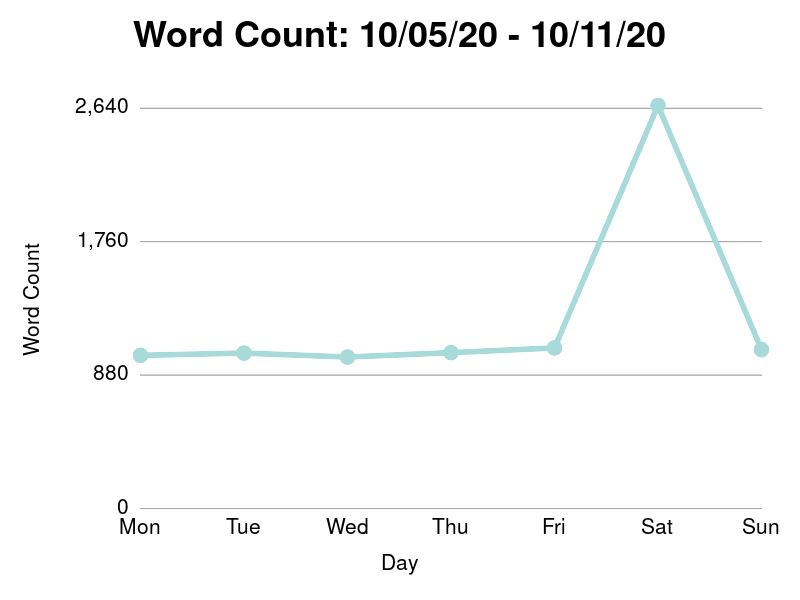
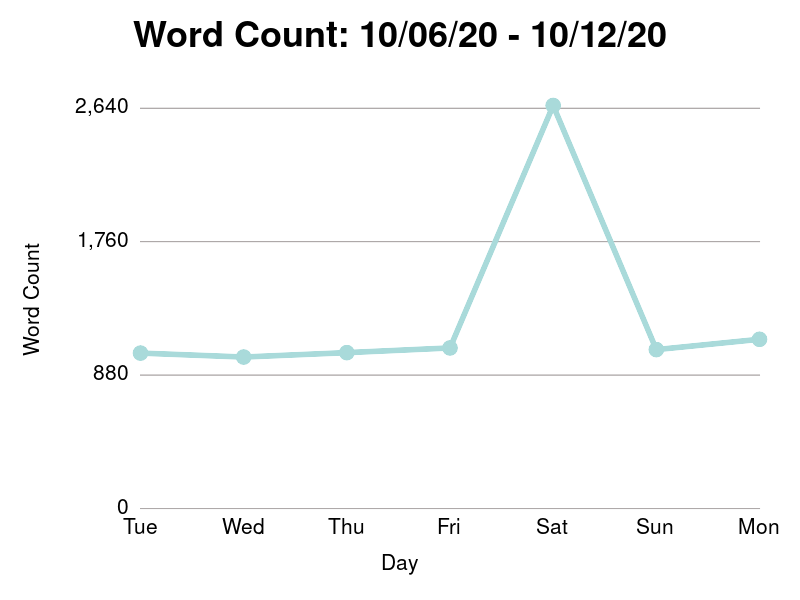
Post

diff --git a/entries/2020-10-12.md b/entries/2020-10-12.md
@@ -1,0 +1,133 @@
+---
+title: snacking, frisbee trick shots, and nick jr. fan fiction
+---
+
+Dear Journal,
+
+Good morning, everyone.  It is not my honor, nor my privilege - but it
+is my duty - to say to you "happy Monday".
+
+I can't believe it's already Monday.  The weekends are just getting a
+little to quick for my taste.  It felt like just yesterday we were
+palling around at the biergarten like we had all the time in the
+world.  A few naps and a few dinners later, here we are ready to begin
+another work week.
+
+The coffee situation this morning is dire, having enough beans in the
+bag to make exactly 1.2 pots of coffee.  I imagine I looked pretty
+ridiculous making a second batch for only 0.2 pots of coffee, handling
+the meager pile of brown powder like it was a life saving drug.  Don't
+worry about us, though.  We just need enough coffee to hold us over
+until Marissa takes Rodney on a fun little errand across the street to
+Moka for a bag to tide us over.  Rodney will happily accompany her for
+their kids sized mango smoothie, the crown jewel of Rodney treats.
+
+A radioactive orange and yellow smoothie stuffed into a kid sized
+plastic cup, topped with a little piece of wrapped candy.  And before
+you even take the cup from the drive through window, Rodney will
+already be barking orders.  "Dadda," he says.  "Take open the candy
+please?  Take off the wrapper please?"
+
+And so you take off the wrapper, setting the piece of candy back on
+the lid for him to enjoy between fruity mango sips.  Later, Rodney,
+not understanding the intricacies of how smoothies melt, will hand it
+back to me when the smoothie runs out of liquid.
+
+"It's OK dude," I say.  "I'll put it in the fridge for later."
+
+But there's never a _later_.  Rodney almost always forgets about it,
+or even asks for something else.  That melty mango smoothie is mine.
+
+I don't think I've ever used this platform to rant about Rodney's high
+maintenance snacking situation.  As of late, it's kind of gotten out
+of control.  Occasionally, we'll send him up to his room for quiet
+time with a little bowl of his favorite snacks - a tiny bag of paw
+patrol fruit snacks, some snapped Pocky sticks, and maybe a single
+marshmallow or a few pieces of candy corn.  Rodney has done everything
+in his power to make this a regularly expected condition of quiet time
+in his room.
+
+"I have paw patrol fruits?" he'll ask with a wilting voice.  And once
+he gets your attention, he'll raise the stakes, adding _And pocky.
+And two lil' marshmallows.  And candy corn._
+
+"No," I scolded.  "Rodney, it's 9 in the morning.  You're not even
+supposed to be up yet.  You can't have any snacks yet, especially
+before your breakfast."
+
+If we resist his advances for room service, Rodney settles for kitchen
+grazing.  The best time to hit me up is when I'm cooking, since I'm
+manning the kitchen and I'm in a good mood.  Rodney asks for _stukjes_
+of cheese or bread off the cutting board, cherry tomatoes, and off
+cuts of carrots.  Over by the pantry, he can usually get away with
+asking me for a few goldfish crackers out of our family-sized bin.
+If, god forbid, nobody is in the kitchen to hold him accountable,
+he'll get the honey bottle of the lower shelf and dab a few drops on
+his finger.
+
+But the most cherished staple in the domain of Recker family stacking
+would easily have to be Marissa's _sparkly toast_.  A piece of toasted
+bread swiped with butter, sprinkled liberally with cinnamon sugar.
+
+"Did you know that one morning on the way up to my office to start
+work, he asked me for sparkly toast?" I told Marissa.
+
+She laughed.  "The nerve," she said.  "He's just getting way too
+confident."
+
+_Sip_.  How is your morning going?  And, more importantly, how was
+your weekend?  Ours was brief but relaxing.  Surprisingly, it was kind
+of nice not having to work around a Sunday football game.  Yesterday
+was probably the only day this weekend I felt like I could just hang
+around on the couch in the afternoon, clicking around YouTube with
+Rodney.
+
+Later that day, I enjoyed a beer on the couch with Marissa in her
+studio, in celebration of a successful virtual gallery weekend.  At
+four o'clock, she signed off her virtual booth for the weekend.
+Upstairs, directly above our heads, we heard a thump and a clatter in
+the dining room.
+
+"That's just Rodney," I laughed.  "He's setting up water bottles
+around the house and knocking them down with a Frisbee."
+
+I played a few rounds of improvisational Frisbee water bottle
+bowling.  He reserved the toughest trick shot for me, standing up a
+water bottle on the other side of the living room.  I stood at the top
+of the stair case, crouching so I'd have a clear line of site at the
+target.
+
+"OK, let's do this!" yelled Rodney.  I gave the Frisbee a gentle toss,
+and it floated across the room.  It bounced off a leg of the fish tank
+and rolled into the water bottle, knocking it over.  Rodney pumped his
+arm and shrieked.  "_WOOOOH!_" High fives were exchanged.  After
+checking up on him, I rejoined Marissa in the basement, leaving him to
+tackle another trick shot involving stacking two half empty bottles
+precariously on our napkin holder.
+
+Marissa put Rodney to bed.  As we grabbed evening drinks out of the
+fridge in the kitchen, we exchanged Rodney stories.
+
+"You know how I've been telling him bedtime stories at night?" I
+began.  "I found that he's a lot less scared of them if he can set up
+the whole premise with characters that are very familiar to him.  I
+told him a story about the paw patrol rescuing his Corgi, who had been
+lost at the biergarten."
+
+"Oh, that's nice," said Marissa.
+
+"When I was done, I was like, 'did you like that one, dude?  Bet that
+was better than the scary story I told you about the dragon who guards
+treasure in the mountain', but I barely expected him to remember."
+
+But Rodney did remember.  The two scary stories I told him were,
+evidently, burned into his little memory bank.  "Yeah!" he quickly
+blurted out.  "Or the one about monkeys in my closet."  His eyes were
+watery, like he was holding back a painful memory.  "Dada, I don't
+like mmm... mmm... monkeys in my closet, that makes me _pretty
+nervous_."
+
+That's fair.  Scary bedtime stories are an acquired taste, and until
+then, I'll bide my time with Nick Jr. fan fiction.
+
+Thanks for stopping by.  Have a great day, everyone.
